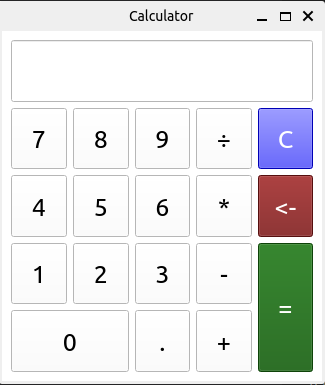
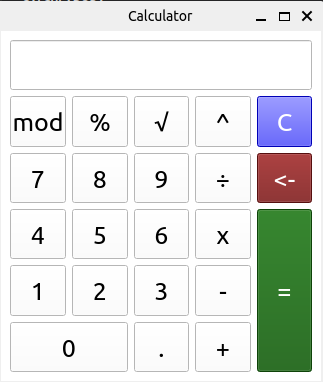
v1.7.0

diff --git a/calculator.py b/calculator.py
@@ -4,10 +4,12 @@ from PyQt5.QtWidgets import QPushButton, QLineEdit, QSizePolicy
 
 
 def fmt_display(str):
-    new_str        = str.replace('÷', '/')
-    final_str      = new_str.replace('x', '*')
+    str  = str.replace('÷', '/')
+    str  = str.replace('x', '*')
+    str  = str.replace('mod', '%')
+    str  = str.replace('^', '**')
 
-    return final_str
+    return str
 
 
 class Calculator(QMainWindow):
@@ -28,21 +30,26 @@ class Calculator(QMainWindow):
 
         self.display.setSizePolicy(QSizePolicy.Preferred, QSizePolicy.Expanding)
         
-        self.add_btn(QPushButton('7'), 1, 0, 1, 1)
-        self.add_btn(QPushButton('8'), 1, 1, 1, 1)
-        self.add_btn(QPushButton('9'), 1, 2, 1, 1)
-        self.add_btn(QPushButton('÷'), 1, 3, 1, 1)
-        self.add_btn(QPushButton('4'), 2, 0, 1, 1)
-        self.add_btn(QPushButton('5'), 2, 1, 1, 1)
-        self.add_btn(QPushButton('6'), 2, 2, 1, 1)
-        self.add_btn(QPushButton('x'), 2, 3, 1, 1)
-        self.add_btn(QPushButton('1'), 3, 0, 1, 1)
-        self.add_btn(QPushButton('2'), 3, 1, 1, 1)
-        self.add_btn(QPushButton('3'), 3, 2, 1, 1)
-        self.add_btn(QPushButton('-'), 3, 3, 1, 1)
-        self.add_btn(QPushButton('0'), 4, 0, 1, 2)
-        self.add_btn(QPushButton('.'), 4, 2, 1, 1)
-        self.add_btn(QPushButton('+'), 4, 3, 1, 1)
+        self.add_btn(QPushButton('mod'), 1, 0, 1, 1)
+        self.add_btn(QPushButton('%'), 1, 1, 1, 1)
+        self.add_btn(QPushButton('√'), 1, 2, 1, 1)
+        self.add_btn(QPushButton('^'), 1, 3, 1, 1)
+
+        self.add_btn(QPushButton('7'), 2, 0, 1, 1)
+        self.add_btn(QPushButton('8'), 2, 1, 1, 1)
+        self.add_btn(QPushButton('9'), 2, 2, 1, 1)
+        self.add_btn(QPushButton('÷'), 2, 3, 1, 1)
+        self.add_btn(QPushButton('4'), 3, 0, 1, 1)
+        self.add_btn(QPushButton('5'), 3, 1, 1, 1)
+        self.add_btn(QPushButton('6'), 3, 2, 1, 1)
+        self.add_btn(QPushButton('x'), 3, 3, 1, 1)
+        self.add_btn(QPushButton('1'), 4, 0, 1, 1)
+        self.add_btn(QPushButton('2'), 4, 1, 1, 1)
+        self.add_btn(QPushButton('3'), 4, 2, 1, 1)
+        self.add_btn(QPushButton('-'), 4, 3, 1, 1)
+        self.add_btn(QPushButton('0'), 5, 0, 1, 2)
+        self.add_btn(QPushButton('.'), 5, 2, 1, 1)
+        self.add_btn(QPushButton('+'), 5, 3, 1, 1)
         
         self.add_btn( 
             QPushButton('C'), 1, 4, 1, 1, 
@@ -55,7 +62,7 @@ class Calculator(QMainWindow):
                 ),
                 'background: #791515; color: white')
         self.add_btn(
-            QPushButton('='), 3, 4, 2, 1, self.equal_method,
+            QPushButton('='), 3, 4, 3, 1, self.equal_method,
                 'background: #135e0d; color: white')
 
         self.setCentralWidget(self.cw)
@@ -87,7 +94,7 @@ class Calculator(QMainWindow):
 
 
 if __name__ == '__main__':
-    calc = Calculator()
     qt   = QApplication(sys.argv)
+    calc = Calculator()
     calc.show()
     qt.exec()

diff --git a/README.md b/README.md
@@ -1,7 +1,7 @@
 
 # Desktop-Calculator.py
 
-Calculator.py é uma aplicação desenvolvida em python para desktop fornecendo funcionalidade padrão até a atual versão (1.6). Para construção do software foi usado o empacotador PyQt na versão 5.
+Calculator.py é uma aplicação desenvolvida em python para desktop fornecendo funcionalidade padrão até a atual versão (1.7). Para construção do software foi usado o empacotador PyQt na versão 5.
 
 Para mais informações sobre o empacotador, clique [aqui](https://pypi.org/project/PyQt5/)
 
